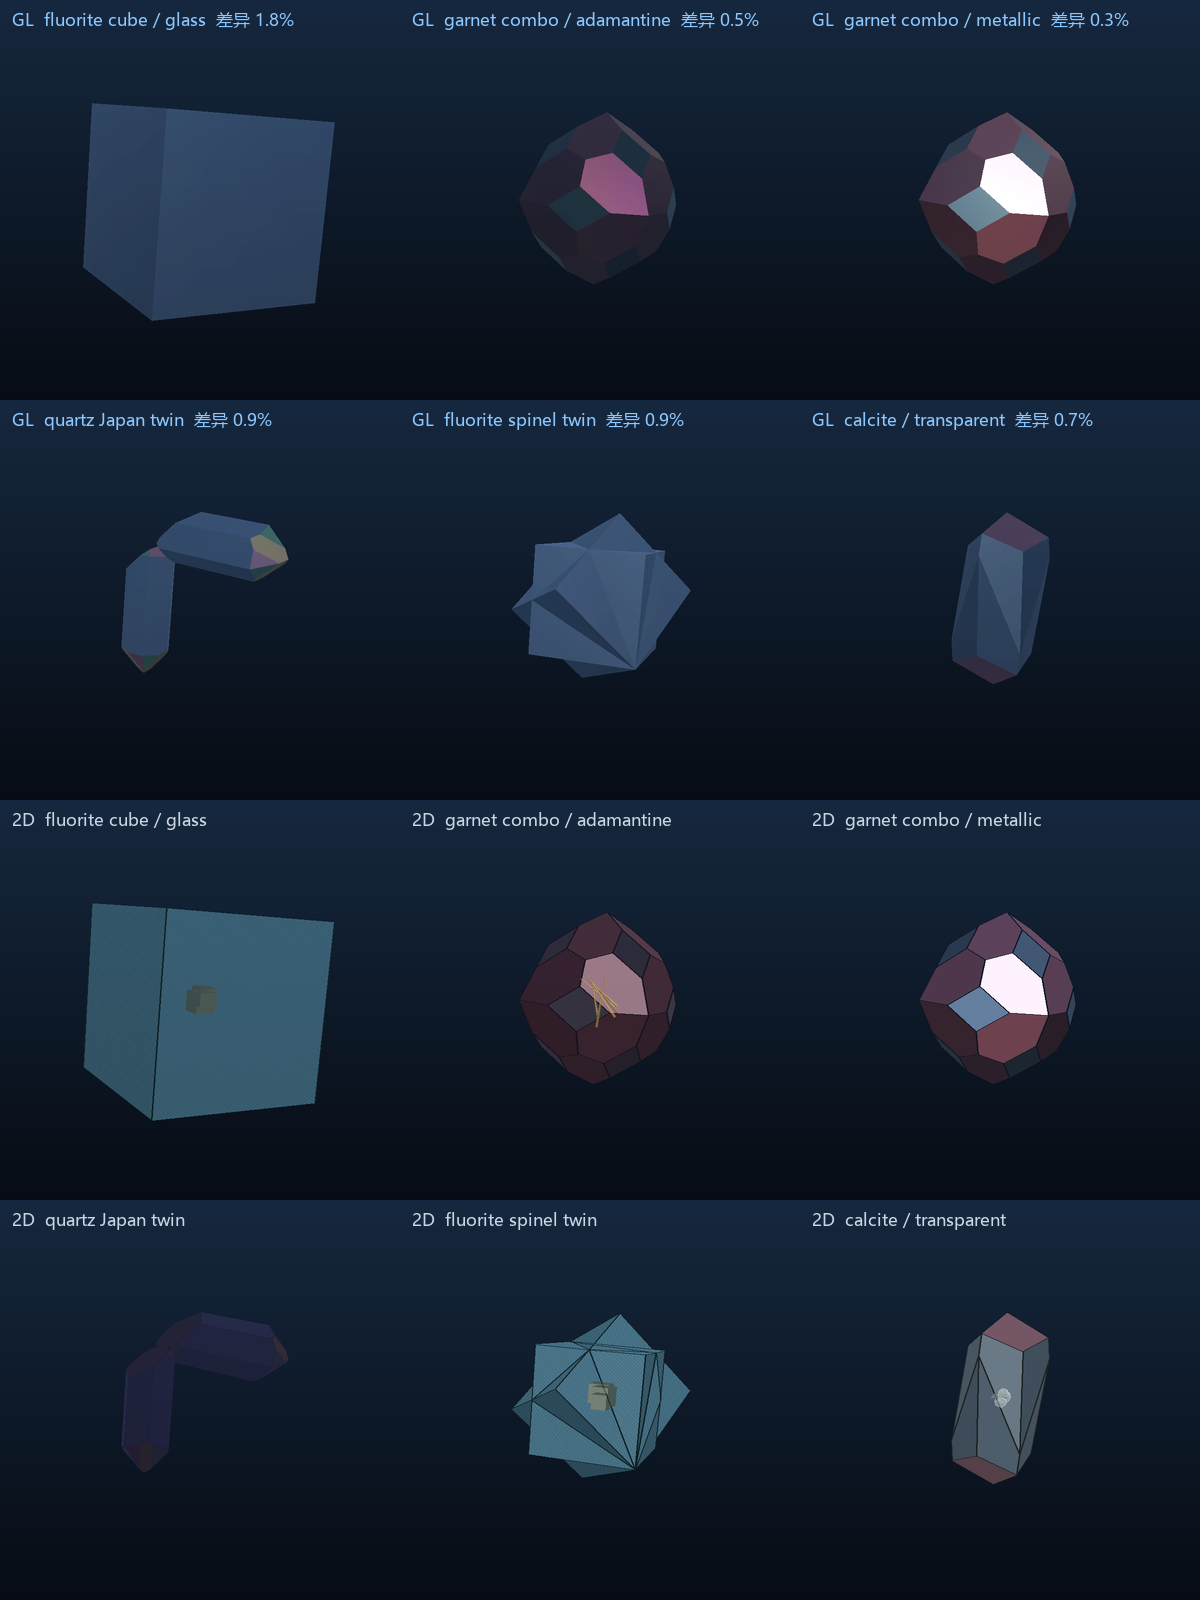
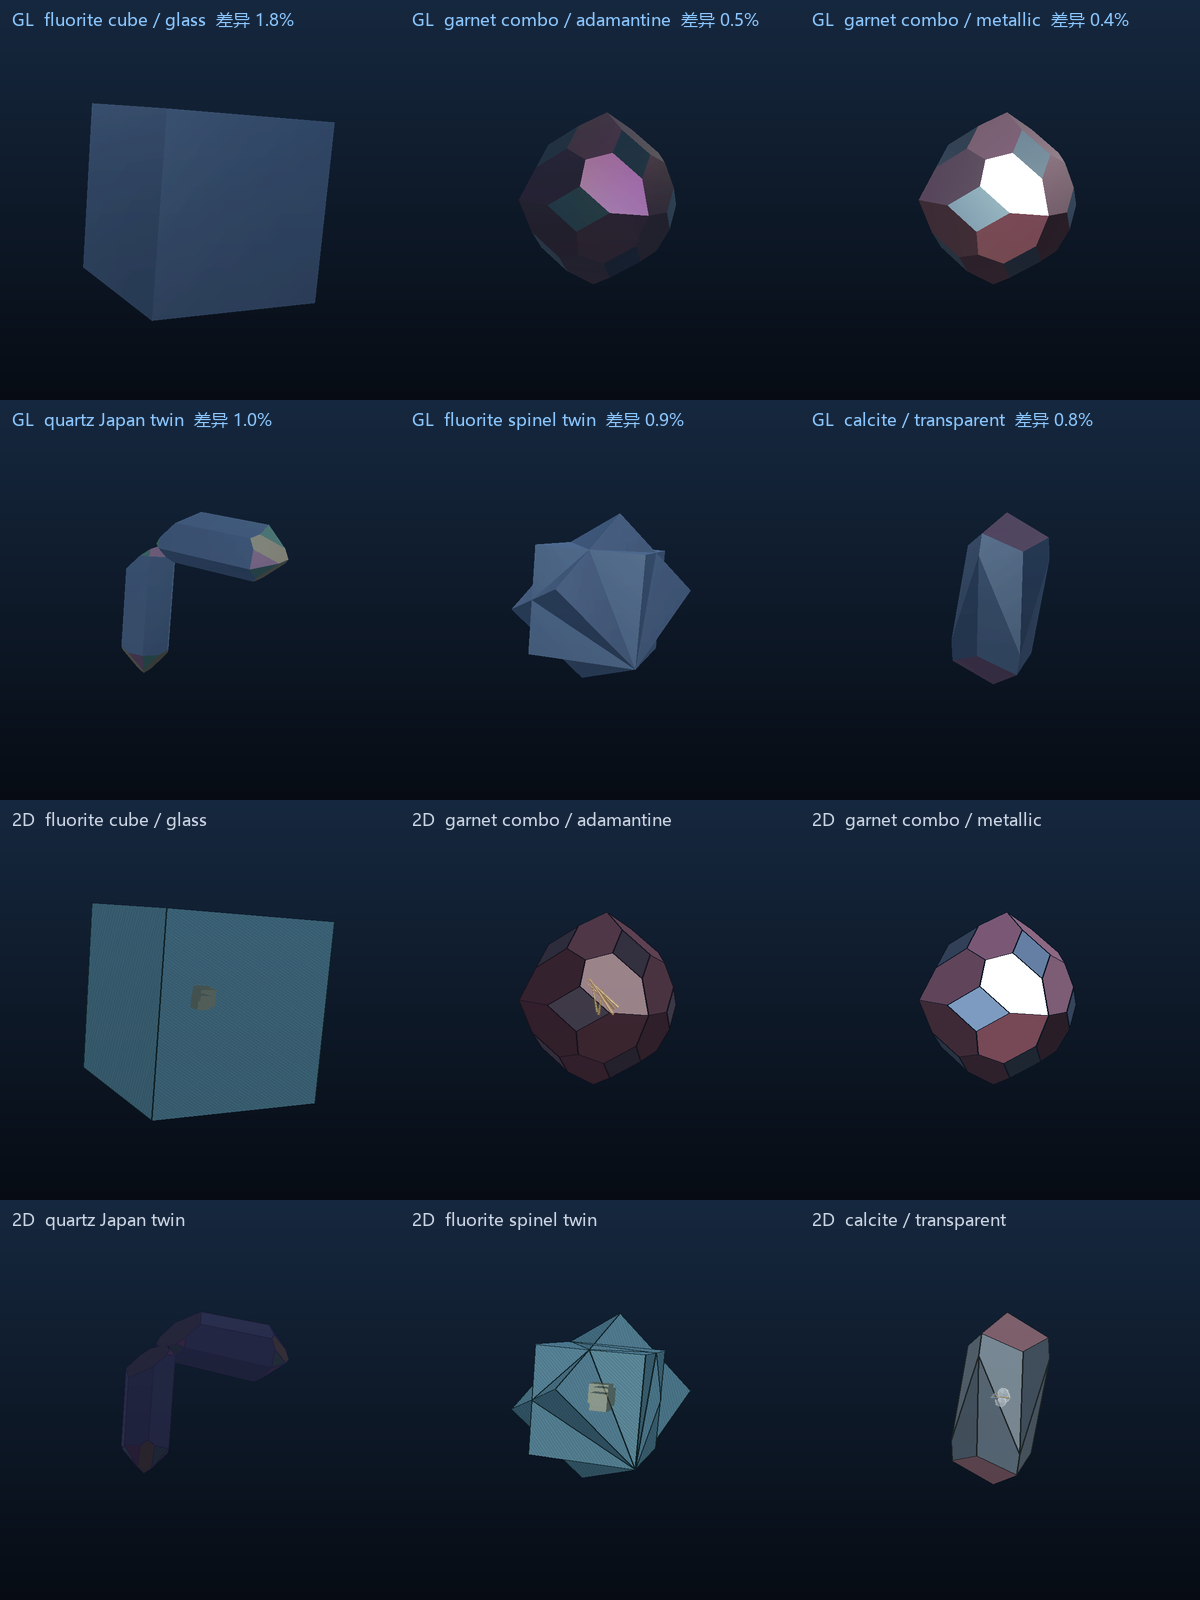
副光加成 1.6 倍：让"六盏灯"真的看得出来
- 归一化改成只看主光之后，副光是纯加法，但原本副光只有 0.16-0.55 的强度，
  乘进去暗面只从 0.06 抬到 0.08，肉眼几乎无感（用户："我怎么没看出来啥不同"）。
- 新增 FILL_GAIN = 1.6（JS 常量 / GL_FS uniform uFillGain / Python 复刻层 FILL_GAIN），
  主光不动、五盏副光全部乘 1.6；KEY_EXPO 0.62 -> 0.55 压住过曝。
- 实测：暗面漫反射 0.06 -> 0.15 左右，石榴石金刚光泽左上方出现明显的补光亮斑。
- Python 复刻层同步 shade() 与 gl_raster() 两处（含 sp 的分母改用 KEY_SPEC）
- 断言 163 条全 PASS

Changed region(s): [[0.8017, 0.5625, 0.8942, 0.6562], [0.8017, 0.0625, 0.8942, 0.1562], [0.4625, 0.0938, 0.555, 0.1562]]

diff --git a/demo/crystal.html b/demo/crystal.html
@@ -658,7 +658,10 @@ const DEFAULT_LUSTER = "glass";
 const EXPO = 1.10;
 /* 主光归一化的曝光系数：只按主光归一之后，副光变成纯加法，
    亮面会超过 1，所以整体压到 0.62。GL_FS 里是 uKeyExpo，Python 复刻层是 KEY_EXPO。 */
-const KEY_EXPO = 0.62;
+const KEY_EXPO = 0.55;
+/* 副光增益：归一化改成只看主光之后，副光是纯加法——不放大它们根本看不出来
+   （用户原话"六盏灯和原来完全没区别"）。1.6 倍之后暗面从 0.06 补到 0.15 左右。 */
+const FILL_GAIN = 1.6;
 
 /* 通透度：独立控制。金属光泽天然不透明（金属不透光），其余任意组合都合法：
    金刚 + 全透明 = 钻石；玻璃 + 全透明 = 石英；金刚 + 不透明 = 石榴石 */
@@ -1385,11 +1388,12 @@ function envSample(r) {
 function shadeFace(base, n, cw, eye, M) {
   const v = unit(sub(eye, cw));
   let lam = 0, sp = 0;
-  for (const L of LIGHTS) {
-    const l = L.dir;
-    lam += L.inten * Math.max(0, dot(n, l));
+  for (let i = 0; i < LIGHTS.length; i++) {
+    const L = LIGHTS[i], l = L.dir;
+    const g = i === 0 ? 1 : FILL_GAIN;      // 副光加成放大，否则"六盏灯"看不出多
+    lam += g * L.inten * Math.max(0, dot(n, l));
     const hv = unit([l[0] + v[0], l[1] + v[1], l[2] + v[2]]);
-    sp += L.inten * L.spec * Math.pow(Math.max(0, dot(n, hv)), M.shin);
+    sp += g * L.inten * L.spec * Math.pow(Math.max(0, dot(n, hv)), M.shin);
   }
   // 归一化只看主光（与 GL_FS 同式）：副光是加法，不再靠加大分母把画面压平
   const keyI = Math.max(LIGHTS[0].inten, 0.05);
@@ -1604,7 +1608,7 @@ uniform vec3 uEnvPar[3];      // x=sharp  y=inten
 uniform float uDist, uAmb, uDiff, uSpec, uShin, uFres, uIor, uEnvI, uMetal, uAmbK;
 uniform vec3 uAmbT;
 uniform float uTintSpec, uTwoSided, uAlpha;
-uniform float uDisp, uExpo, uKeyExpo;
+uniform float uDisp, uExpo, uKeyExpo, uFillGain;
 out vec4 frag;
 
 vec3 envSample(vec3 r) {
@@ -1636,11 +1640,12 @@ void main() {
   for (int i = 0; i < 6; i++) {
     vec3 l = normalize(uLigDir[i]);
     float inten = uLigInt[i].x, spec = uLigInt[i].y;
-    lam += inten * max(0.0, dot(n, l));
+    float gain = (i == 0) ? 1.0 : uFillGain;   // 副光加成放大：不然六盏灯看不出多
+    lam += gain * inten * max(0.0, dot(n, l));
     lamSum += inten;
     vec3 hv = normalize(l + v);
     float lobe = pow(max(0.0, dot(n, hv)), uShin);
-    sp += inten * spec * lobe;
+    sp += gain * inten * spec * lobe;
     spSum += inten * spec;
   }
   /* 归一化只看主光（i=0），不按总和 ——
@@ -1848,6 +1853,7 @@ function glRender(project, M, opts, list) {
     [e[0].sharp, e[0].inten, 0, e[1].sharp, e[1].inten, 0, e[2].sharp, e[2].inten, 0]));
   gl.uniform1f(glUni.uExpo, EXPO);
   gl.uniform1f(glUni.uKeyExpo, KEY_EXPO);
+  gl.uniform1f(glUni.uFillGain, FILL_GAIN);
   const S = GL_STRIDE * 4;
   gl.bindBuffer(gl.ARRAY_BUFFER, glVBO);
   gl.enableVertexAttribArray(glAttr.aPos); gl.vertexAttribPointer(glAttr.aPos, 3, gl.FLOAT, false, S, 0);

diff --git a/demo/crystal_template.html b/demo/crystal_template.html
@@ -658,7 +658,10 @@ const DEFAULT_LUSTER = "glass";
 const EXPO = 1.10;
 /* 主光归一化的曝光系数：只按主光归一之后，副光变成纯加法，
    亮面会超过 1，所以整体压到 0.62。GL_FS 里是 uKeyExpo，Python 复刻层是 KEY_EXPO。 */
-const KEY_EXPO = 0.62;
+const KEY_EXPO = 0.55;
+/* 副光增益：归一化改成只看主光之后，副光是纯加法——不放大它们根本看不出来
+   （用户原话"六盏灯和原来完全没区别"）。1.6 倍之后暗面从 0.06 补到 0.15 左右。 */
+const FILL_GAIN = 1.6;
 
 /* 通透度：独立控制。金属光泽天然不透明（金属不透光），其余任意组合都合法：
    金刚 + 全透明 = 钻石；玻璃 + 全透明 = 石英；金刚 + 不透明 = 石榴石 */
@@ -1385,11 +1388,12 @@ function envSample(r) {
 function shadeFace(base, n, cw, eye, M) {
   const v = unit(sub(eye, cw));
   let lam = 0, sp = 0;
-  for (const L of LIGHTS) {
-    const l = L.dir;
-    lam += L.inten * Math.max(0, dot(n, l));
+  for (let i = 0; i < LIGHTS.length; i++) {
+    const L = LIGHTS[i], l = L.dir;
+    const g = i === 0 ? 1 : FILL_GAIN;      // 副光加成放大，否则"六盏灯"看不出多
+    lam += g * L.inten * Math.max(0, dot(n, l));
     const hv = unit([l[0] + v[0], l[1] + v[1], l[2] + v[2]]);
-    sp += L.inten * L.spec * Math.pow(Math.max(0, dot(n, hv)), M.shin);
+    sp += g * L.inten * L.spec * Math.pow(Math.max(0, dot(n, hv)), M.shin);
   }
   // 归一化只看主光（与 GL_FS 同式）：副光是加法，不再靠加大分母把画面压平
   const keyI = Math.max(LIGHTS[0].inten, 0.05);
@@ -1604,7 +1608,7 @@ uniform vec3 uEnvPar[3];      // x=sharp  y=inten
 uniform float uDist, uAmb, uDiff, uSpec, uShin, uFres, uIor, uEnvI, uMetal, uAmbK;
 uniform vec3 uAmbT;
 uniform float uTintSpec, uTwoSided, uAlpha;
-uniform float uDisp, uExpo, uKeyExpo;
+uniform float uDisp, uExpo, uKeyExpo, uFillGain;
 out vec4 frag;
 
 vec3 envSample(vec3 r) {
@@ -1636,11 +1640,12 @@ void main() {
   for (int i = 0; i < 6; i++) {
     vec3 l = normalize(uLigDir[i]);
     float inten = uLigInt[i].x, spec = uLigInt[i].y;
-    lam += inten * max(0.0, dot(n, l));
+    float gain = (i == 0) ? 1.0 : uFillGain;   // 副光加成放大：不然六盏灯看不出多
+    lam += gain * inten * max(0.0, dot(n, l));
     lamSum += inten;
     vec3 hv = normalize(l + v);
     float lobe = pow(max(0.0, dot(n, hv)), uShin);
-    sp += inten * spec * lobe;
+    sp += gain * inten * spec * lobe;
     spSum += inten * spec;
   }
   /* 归一化只看主光（i=0），不按总和 ——
@@ -1848,6 +1853,7 @@ function glRender(project, M, opts, list) {
     [e[0].sharp, e[0].inten, 0, e[1].sharp, e[1].inten, 0, e[2].sharp, e[2].inten, 0]));
   gl.uniform1f(glUni.uExpo, EXPO);
   gl.uniform1f(glUni.uKeyExpo, KEY_EXPO);
+  gl.uniform1f(glUni.uFillGain, FILL_GAIN);
   const S = GL_STRIDE * 4;
   gl.bindBuffer(gl.ARRAY_BUFFER, glVBO);
   gl.enableVertexAttribArray(glAttr.aPos); gl.vertexAttribPointer(glAttr.aPos, 3, gl.FLOAT, false, S, 0);

diff --git a/spike/qa-render.py b/spike/qa-render.py
@@ -456,7 +456,8 @@ LIGHTS = [
 LIGHT_SUM = sum(L["inten"] for L in LIGHTS)
 KEY_INTEN = max(LIGHTS[0]["inten"], 0.05)
 KEY_SPEC = max(LIGHTS[0]["inten"] * LIGHTS[0]["spec"], 0.02)
-KEY_EXPO = 0.62
+KEY_EXPO = 0.55
+FILL_GAIN = 1.6
 LIGHT_SPEC_SUM = sum(L["inten"] * L["spec"] for L in LIGHTS)
 
 
@@ -485,14 +486,15 @@ def shade(base, n, c, eye, mat, tint_spec=False):
     v = v / (np.linalg.norm(v) + 1e-9)
     lam = 0.0
     sp = 0.0
-    for L in LIGHTS:
+    for li, L in enumerate(LIGHTS):
         l = L["dir"]
-        lam += L["inten"] * max(0.0, float(np.dot(n, l)))
+        g = 1.0 if li == 0 else FILL_GAIN      # 与 demo 的 shadeFace 一致
+        lam += g * L["inten"] * max(0.0, float(np.dot(n, l)))
         h = l + v
         h = h / (np.linalg.norm(h) + 1e-9)
-        sp += L["inten"] * L["spec"] * max(0.0, float(np.dot(n, h))) ** mat["shin"]
+        sp += g * L["inten"] * L["spec"] * max(0.0, float(np.dot(n, h))) ** mat["shin"]
     lam = (lam / KEY_INTEN) ** 1.12 * KEY_EXPO
-    sp = sp / LIGHT_SPEC_SUM * mat["spec"]
+    sp = sp / KEY_SPEC * mat["spec"] * 0.80
     b = np.array(base, dtype=float)
     amb = mat["amb"] * mat.get("ambK", 1.0)
     amb_t = mat.get("ambT", np.ones(3))
@@ -923,14 +925,15 @@ def gl_raster(faces, R, W, H, cx, cy, FOC, mat, color_mode="form", uniform=None,
         npx = nrm[None, None, :]
         lam_p = np.zeros(v.shape[:2])
         sp = np.zeros(v.shape[:2])
-        for L in LIGHTS:
+        for li, L in enumerate(LIGHTS):
             l = L["dir"][None, None, :]
-            lam_p = lam_p + L["inten"] * np.maximum(0.0, np.sum(npx * l, axis=-1))
+            g = 1.0 if li == 0 else FILL_GAIN
+            lam_p = lam_p + g * L["inten"] * np.maximum(0.0, np.sum(npx * l, axis=-1))
             hv = l + v
             hv = hv / (np.linalg.norm(hv, axis=-1, keepdims=True) + 1e-12)
-            sp = sp + L["inten"] * L["spec"] * np.maximum(0.0, np.sum(npx * hv, axis=-1)) ** mat["shin"]
+            sp = sp + g * L["inten"] * L["spec"] * np.maximum(0.0, np.sum(npx * hv, axis=-1)) ** mat["shin"]
         lam_p = (lam_p / KEY_INTEN) ** 1.12 * KEY_EXPO
-        sp = sp / LIGHT_SPEC_SUM * mat["spec"]
+        sp = sp / KEY_SPEC * mat["spec"] * 0.80
         d = np.sum(npx * v, axis=-1)
         r = 2.0 * d[..., None] * npx - v
         env = env_sample_vec(r)

diff --git a/docs/M0-验证报告.md b/docs/M0-验证报告.md
@@ -901,3 +901,8 @@ vec3 internal = fireIn * fireAmt * (1.0 - F) * 0.85;
 `az = ((state.lightAz ?? 35) + lightPhase * 57.2958) % 360;` 算完又把结果写回 `state.lightAz`。下一步的**增量本身**就是 `lightPhase * 57.2958`，它随 phase 线性增长 —— 于是角速度越转越快，看起来像失控。**教训：动画的"基点"不能和"当前值"是同一个变量**，否则每一步的步长会带着上一次的位移。
 
 改法：基点单独存 `lightBase`（拖主光滑杆时刷新），`state.lightAz` 只驱动滑杆读数。绕行逻辑抽成 `stepLightOrbit()`，断言里连续调 8 次、要求后 4 步增量一致。
+### 19.16 副光加成：让"六盏灯"真的看得出来
+
+归一化改成只看主光之后，副光变成纯加法，但原本副光强度只有 0.16–0.55，乘上去暗面只从 0.06 抬到 0.08——**肉眼几乎无感**，这就是用户说的"我怎么没看出来啥不同"。
+
+新增 `FILL_GAIN = 1.6`（JS 常量 / GLSL `uniform float uFillGain` / Python 复刻层同名常量）：主光不动，五盏副光全部乘 1.6；`KEY_EXPO` 从 0.62 降到 0.55 压住过曝。实测暗面漫反射从 0.06 抬到 0.15 左右，石榴石的金刚光泽左上方出现明显的补光亮斑。
